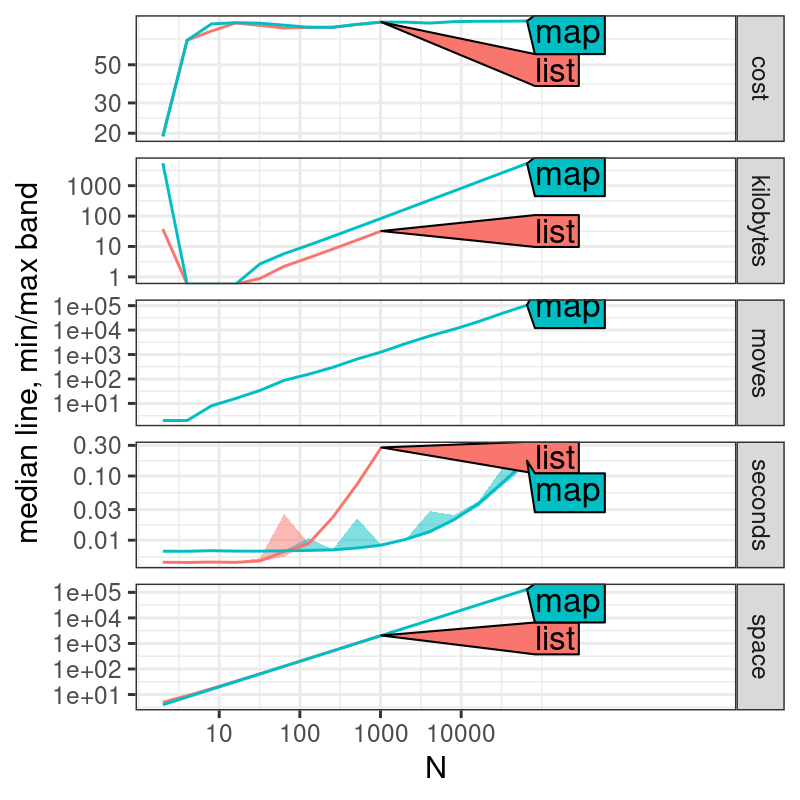
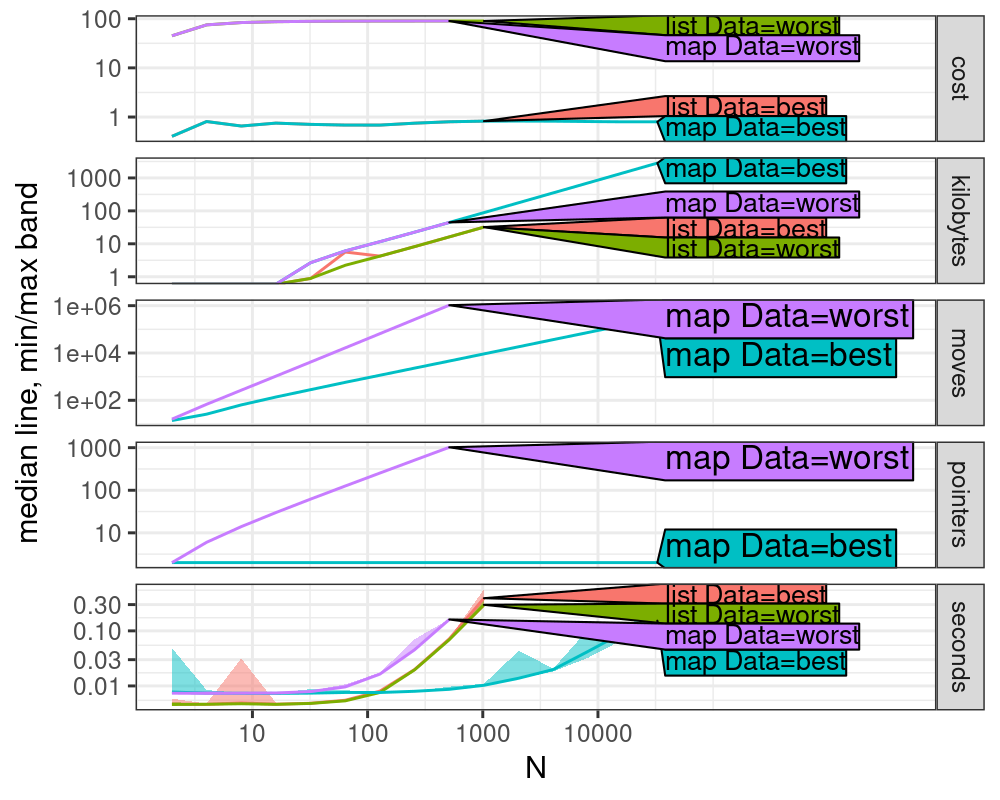
compare best and worst case

diff --git a/README.md b/README.md
@@ -41,14 +41,17 @@ moves per iteration, versus the classic data structure (list), with
 O(I) operations per iteration, where I is the number of intervals used
 to represent the cost function. Both have O(N) space but with O(N)
 total moves, we see that the time complexity of map is O(N log N),
-versus O(N^2) for list.
+versus O(N^2) for list. (in the best case, worst case both are quadratic)
 
 ![screenshot](figure-pfpop-atime-compare.png)
 
-The figure above shows that list sometimes has smaller cost values
-than map. This implies that there are some data sets for which a
-constant number of pointer moves is not sufficient to find the global
-minimum.
+The figure above shows that
+
+* cost: list has same cost values as map in all cases.
+* kilobytes: map takes a constant factor more memory than list.
+* moves: linear in best case, quadratic in worst case.
+* pointers: constant in best case, linear in worst case.
+* seconds: map best case is log-linear, others are quadratic.
 
 # 15 Jan 2025
 
